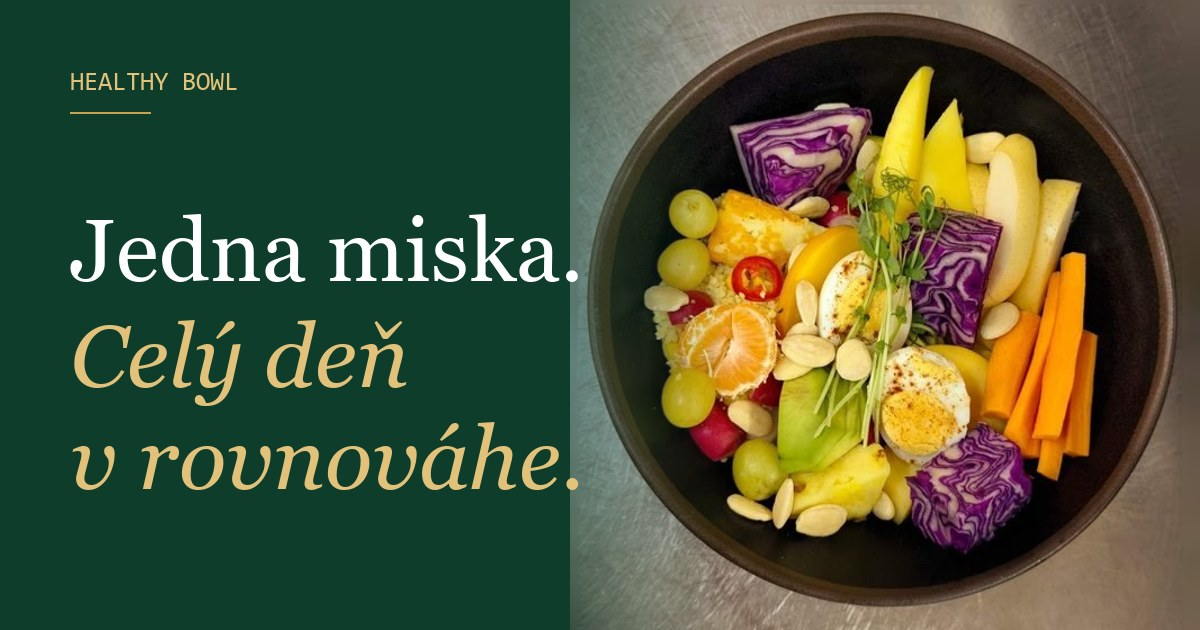
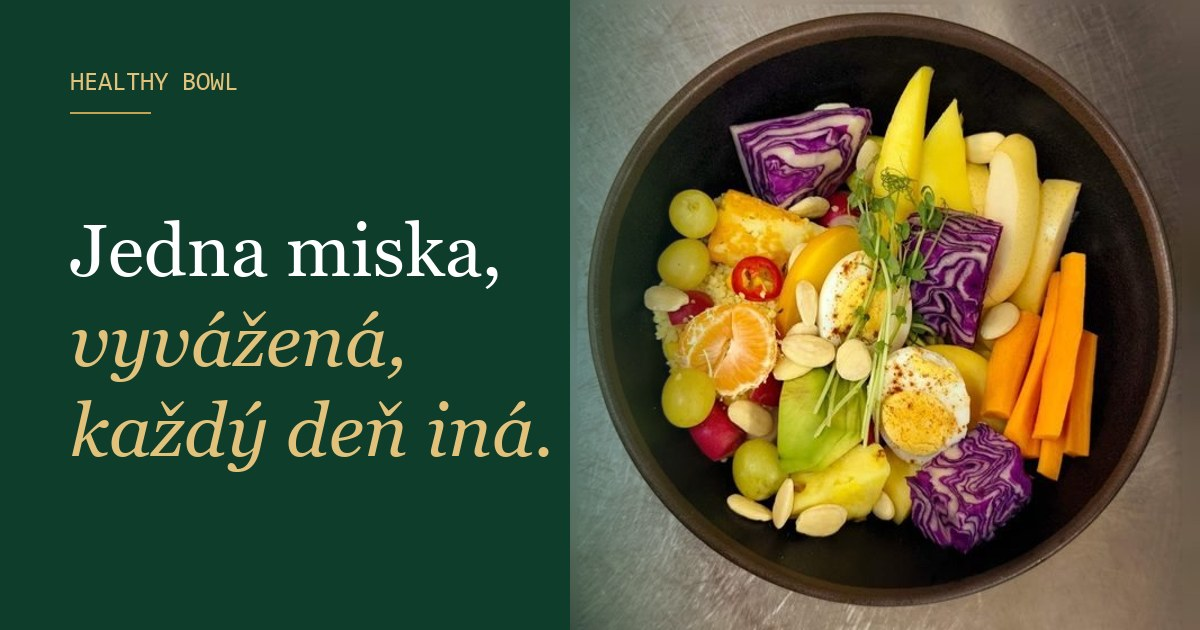
Social preview image: new slogan (Jedna miska, vyvážená, každý deň iná)

Changed region(s): [[0.0617, 0.4825, 0.4933, 0.7841], [0.0617, 0.3317, 0.4933, 0.4524]]

diff --git a/index.html b/index.html
@@ -14,7 +14,7 @@
 <meta property="og:title" content="Healthy Bowl | Jedna miska, vyvážená, každý deň iná.">
 <meta property="og:description" content="Healthy Bowl ti každý deň ukáže jednu vyváženú misku podľa odporúčaní WHO. Bez počítania kalórií, s nákupným zoznamom, kalendárom na 365 dní a 12 jazykmi.">
 <meta property="og:url" content="https://www.healthybowl.sk/">
-<meta property="og:image" content="https://www.healthybowl.sk/img/og-card.jpg">
+<meta property="og:image" content="https://www.healthybowl.sk/img/og-card.jpg?v=2">
 <meta name="twitter:card" content="summary_large_image">
 <link rel="icon" type="image/png" href="img/icon-192.png">
 <link rel="preload" href="fonts/Cormorant-normal-latin.woff2" as="font" type="font/woff2" crossorigin>

diff --git a/en/index.html b/en/index.html
@@ -14,7 +14,7 @@
 <meta property="og:title" content="Healthy Bowl | One bowl, balanced, different every day.">
 <meta property="og:description" content="Healthy Bowl shows you one balanced bowl every day, based on WHO guidance. No calorie counting, with a shopping list, a 365-day calendar and 12 languages.">
 <meta property="og:url" content="https://www.healthybowl.sk/en/">
-<meta property="og:image" content="https://www.healthybowl.sk/img/og-card.jpg">
+<meta property="og:image" content="https://www.healthybowl.sk/img/og-card.jpg?v=2">
 <meta name="twitter:card" content="summary_large_image">
 <link rel="icon" type="image/png" href="../img/icon-192.png">
 <link rel="preload" href="../fonts/Cormorant-normal-latin.woff2" as="font" type="font/woff2" crossorigin>
